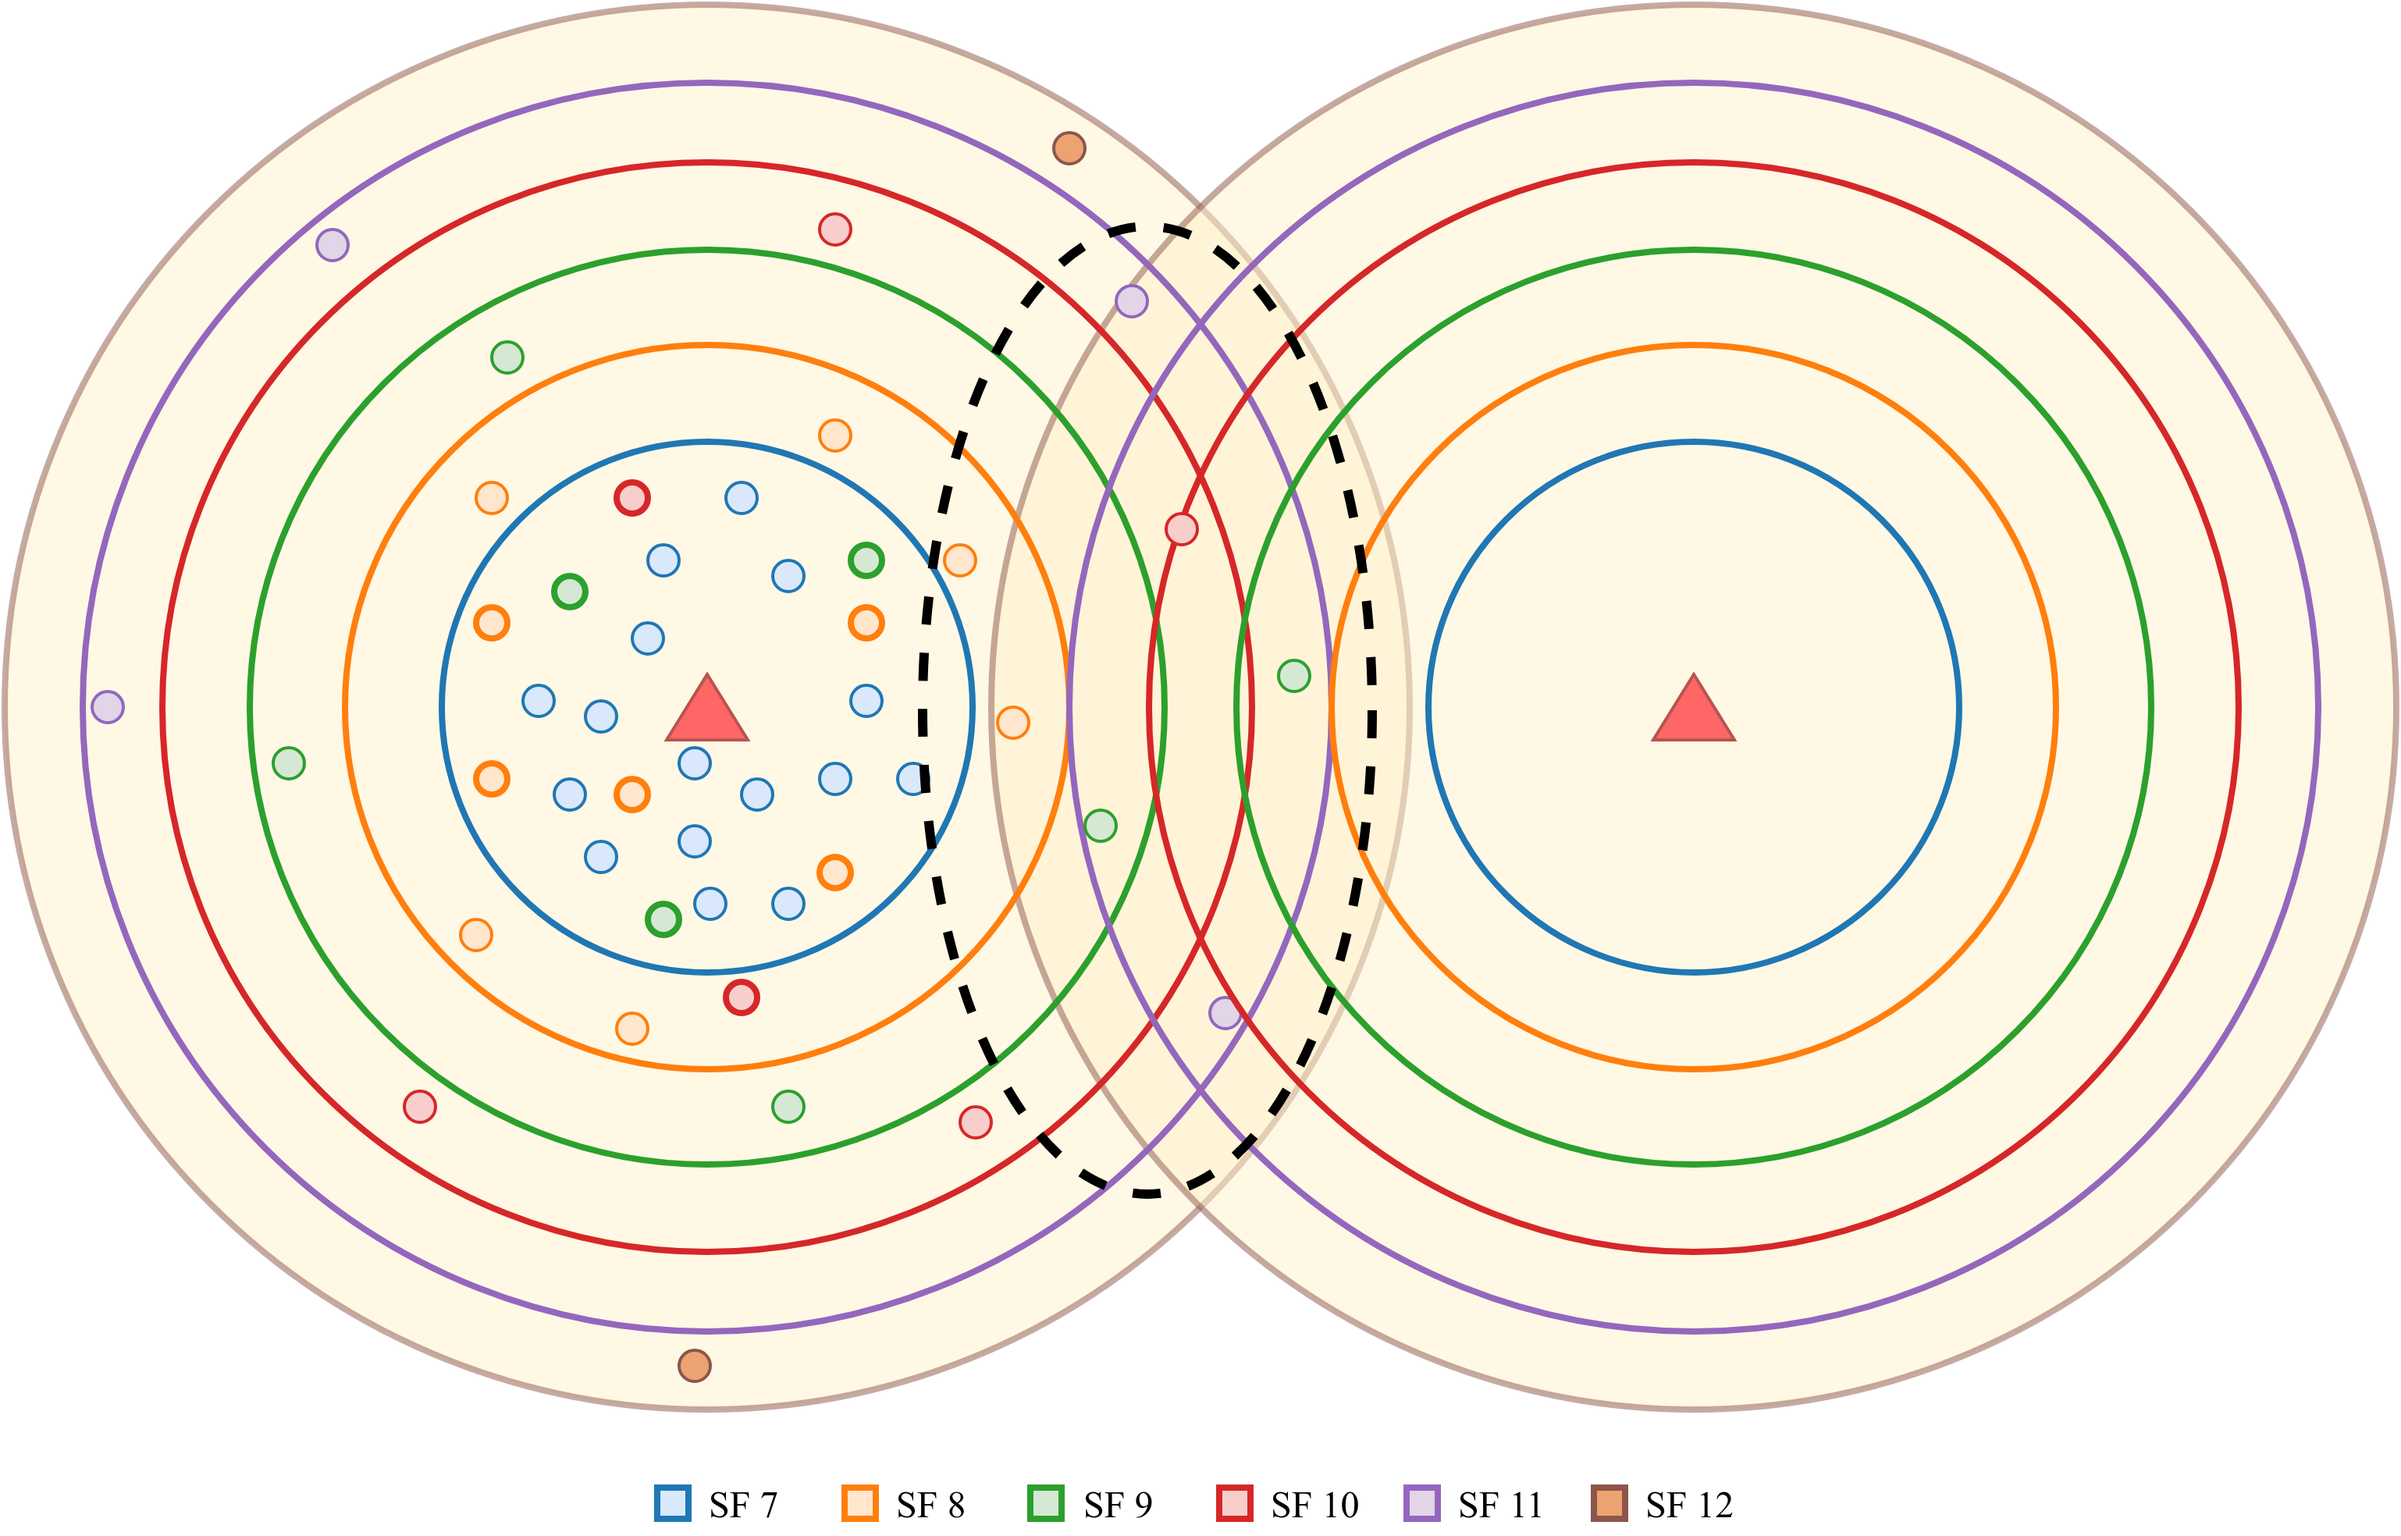
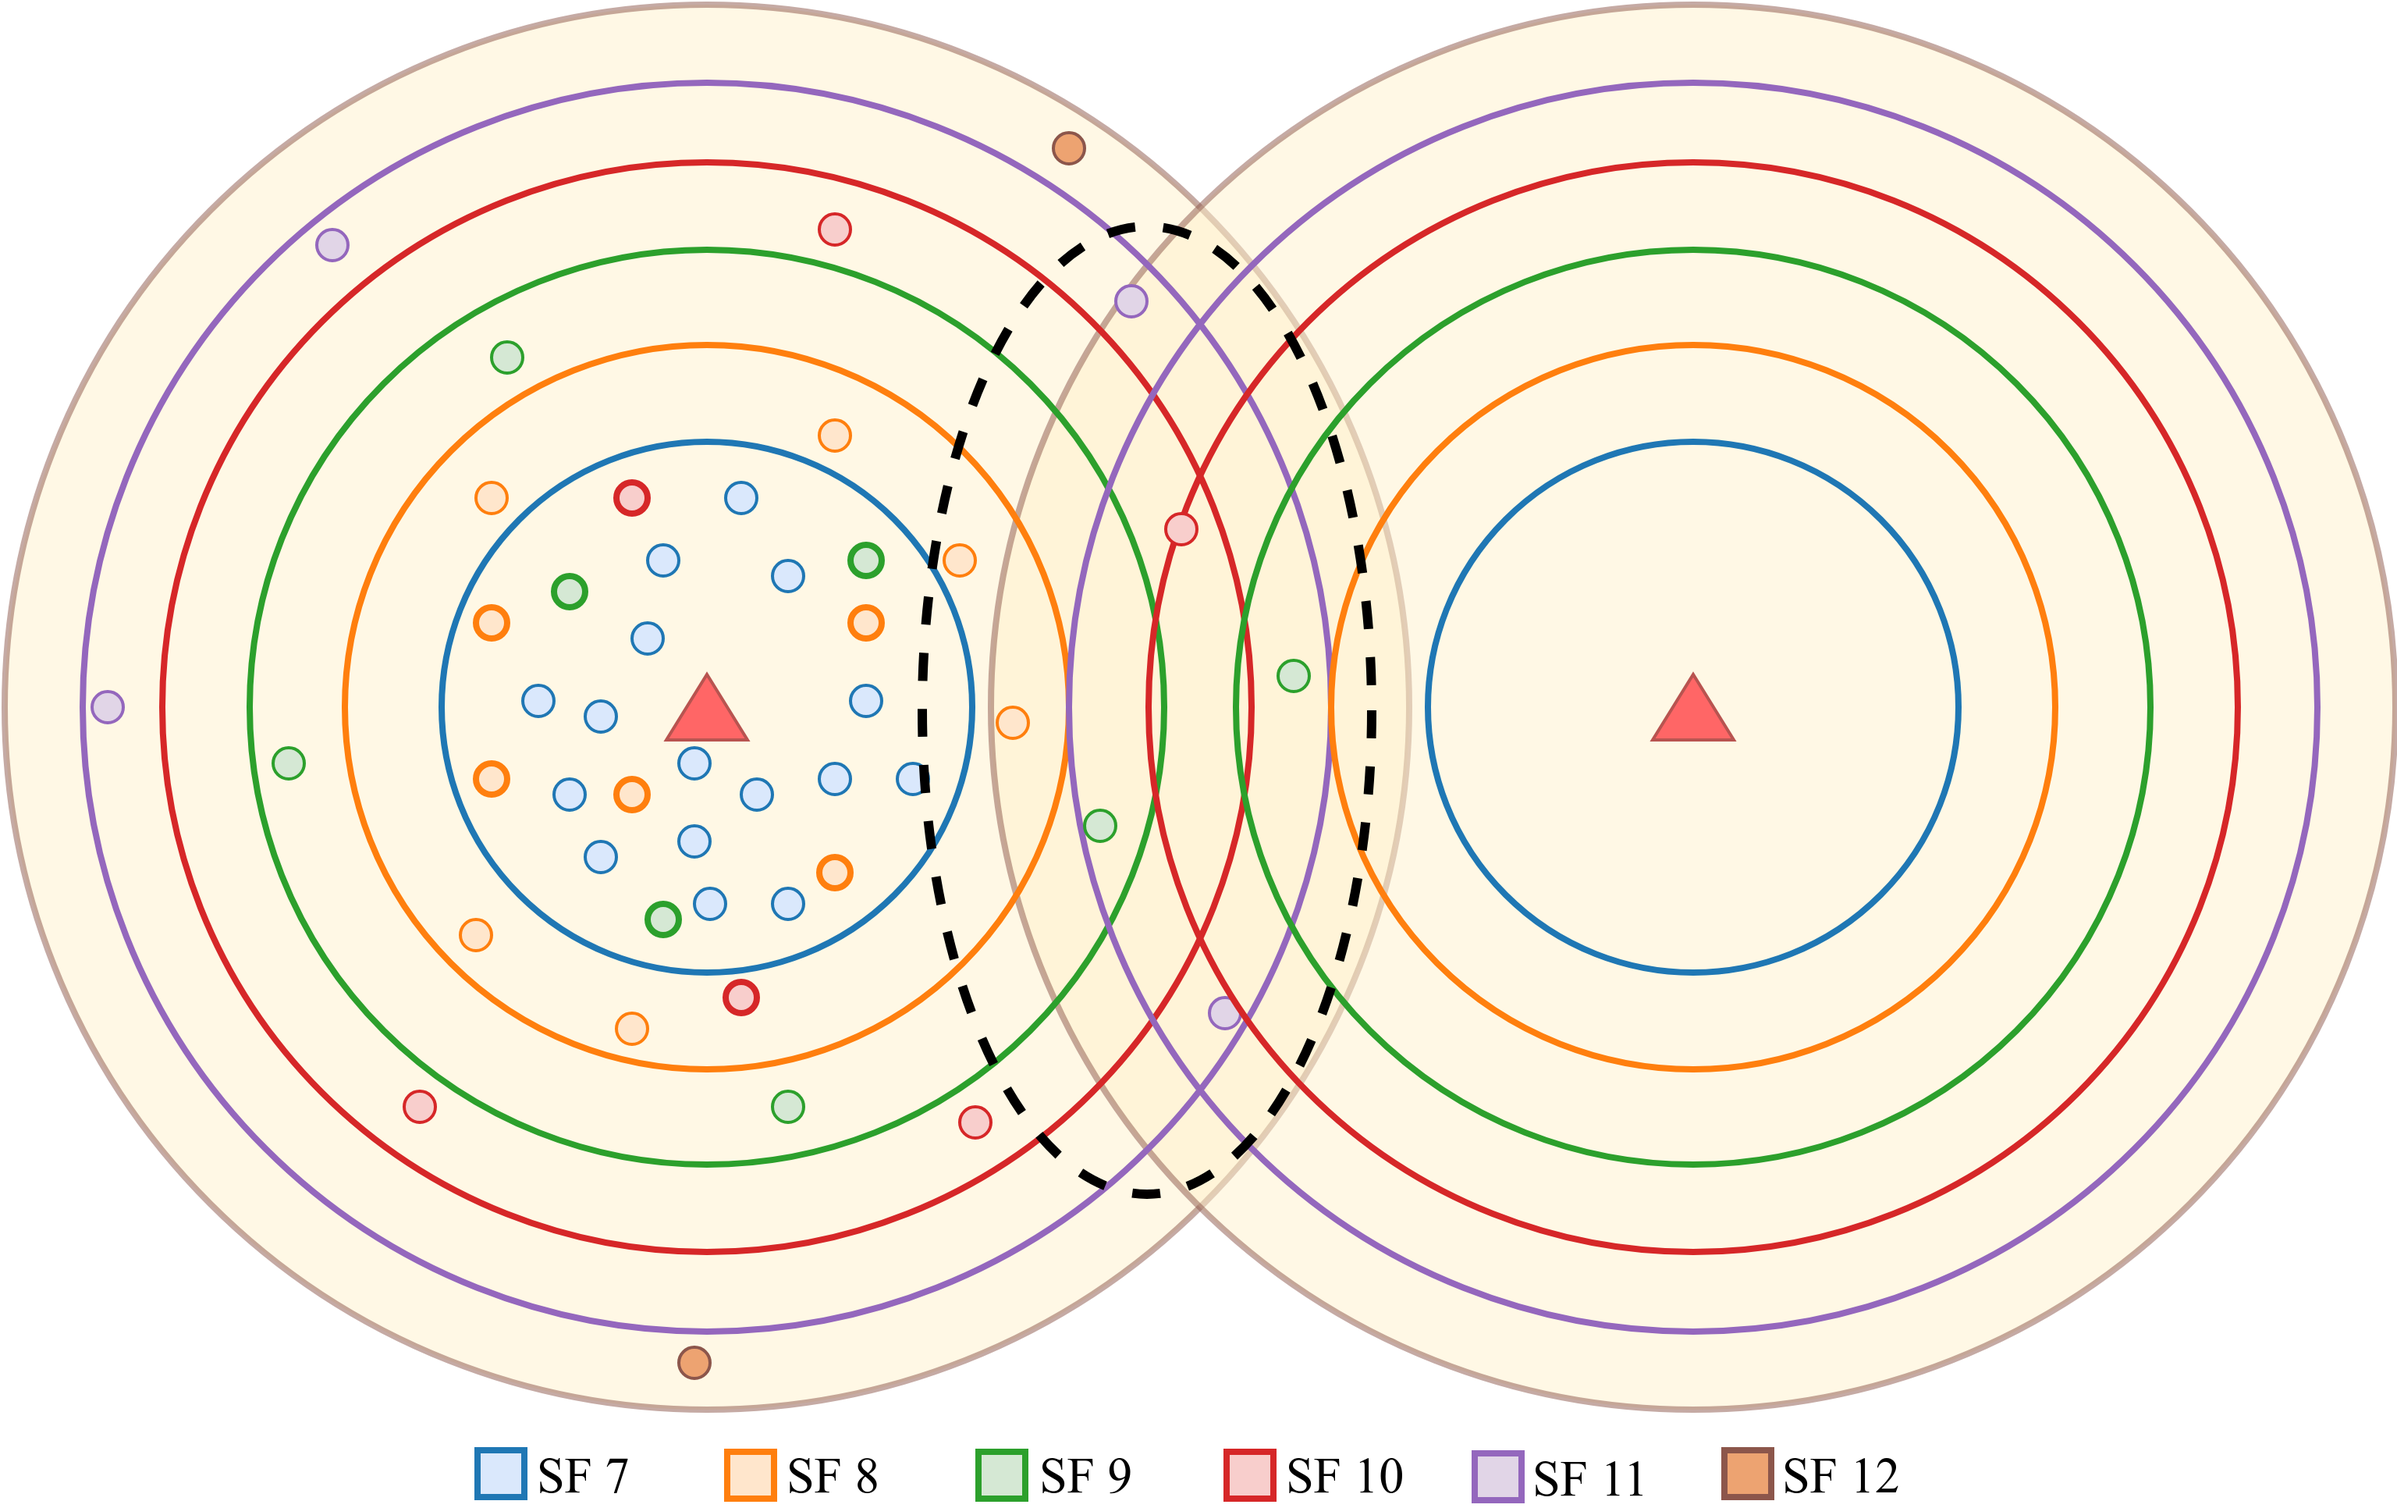
decrease figure sizes

diff --git a/paper.tex b/paper.tex
@@ -37,7 +37,7 @@ LoRa, LoRaWAN, Spreading Factor, LPWAN, Machine Learning
 
 There are several emerging LPWAN technologies. LoRa, Sigfox, NB-IoT and LTE-M are commonly used, well-known LPWAN technologies \cite{7815384}. LoRa and Sigfox use license free ISM frequency bands while NB-IoT and LTE-M use licensed frequency bands which brings extra cost \cite{7815384}. Both LoRa and Sigfox are known for ultra-low power consumption and resilience to interference. While NB-IoT and LTE-M are promoted for higher data rate. LoRa has open standard MAC protocol called LoRaWAN. LoRaWAN and Sigfox MAC protocols are based on pure ALOHA medium access. LoRaWAN networks can be deployed as a private network like WiFi. However, Sigfox and NB-IoT are only available with operator contract \cite{7815384}.
 
-LoRa can adjust data rate by spreading symbols within a fixed channel bandwidth. This enables tradeoff between receive sensitivity and air time of transmission \cite{7803607}. Simultaneous same SF transmissions are prone to collision, however, different SF transmissions in the same channel are orthogonal to each other. Thus, SF assignment is crucial for overall network performance. In this work, a LoRa discrete event simulator is developed to study the performance of LoRa SF assignment strategies. Also, a machine learning based SF assignment approach is proposed. Support Vector Machine (SVM) and Decision Tree Classifier (DTC) techniques are employed and the introduced schemes are called as smart SF schemes. The performance of the smart schemes is compared with the performance of the lowest SF assignment scheme. It is shown that the proposed smart SF assignment schemes give promising results.
+LoRa can adjust data rate by spreading symbols within a fixed channel bandwidth. This enables tradeoff between receive sensitivity and air time of transmission \cite{7803607}. Simultaneous same SF transmissions are prone to collision, however, different SF transmissions in the same channel are orthogonal to each other. Thus, SF assignment is crucial for overall network performance. In this work, a LoRa discrete event simulator is developed to study the performance of LoRa SF assignment strategies. Also, a machine learning based SF assignment approach is proposed. Support Vector Machine (SVM) and Decision Tree Classifier (DTC) techniques are employed and the introduced schemes are called as smart SF schemes. The performance of the smart schemes are compared with the performance of the lowest SF assignment scheme. It is shown that the proposed smart SF assignment schemes give promising results.
 
 This paper is organized as follows: Section \ref{LoRa} and Section \ref{LoRaWAN} provides some background information about LoRa and LoRaWAN. Section \ref{Related Works} summarize  the other related works. Section \ref{Proposed Technique} describes the smart SF assignment technique proposed. Simulation environments and results are shown in Section \ref{Simulation Environment} and \ref{Simulation Results}. Finally, Section \ref{Conclusion} concludes the paper by giving future directions.
 
@@ -65,7 +65,7 @@ In Figure \ref{fig:collision}, a LoRaWAN network deployed with a single gateway 
 
 \begin{figure}
 \centering
-\includegraphics[width=\linewidth]{collision}
+\includegraphics[width=0.85\linewidth]{collision}
 \caption{Collision between nodes close to the gateway.}
 \label{fig:collision}
 \end{figure}
@@ -114,7 +114,7 @@ The tool first runs a simulation with random SF scheme. After random SF scheme s
 
 \begin{figure}
 \centering
-\includegraphics[width=\linewidth]{collision_solution_single_gw}
+\includegraphics[width=0.85\linewidth]{collision_solution_single_gw}
 \caption{Collision avoidance by using higher SF for nodes close to the gateway.}
 \label{fig:collision_solution_single_gw}
 \end{figure}
